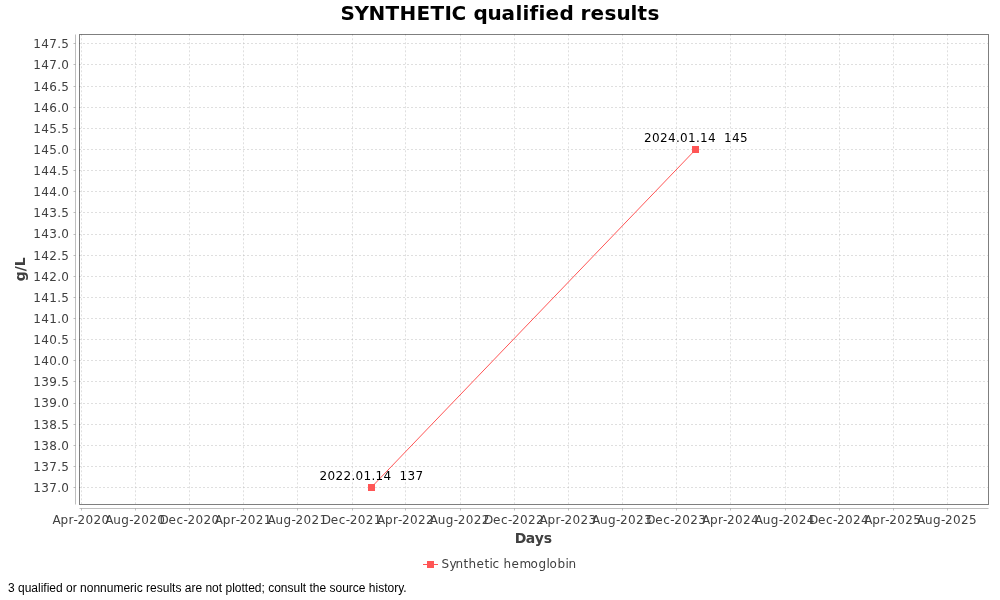
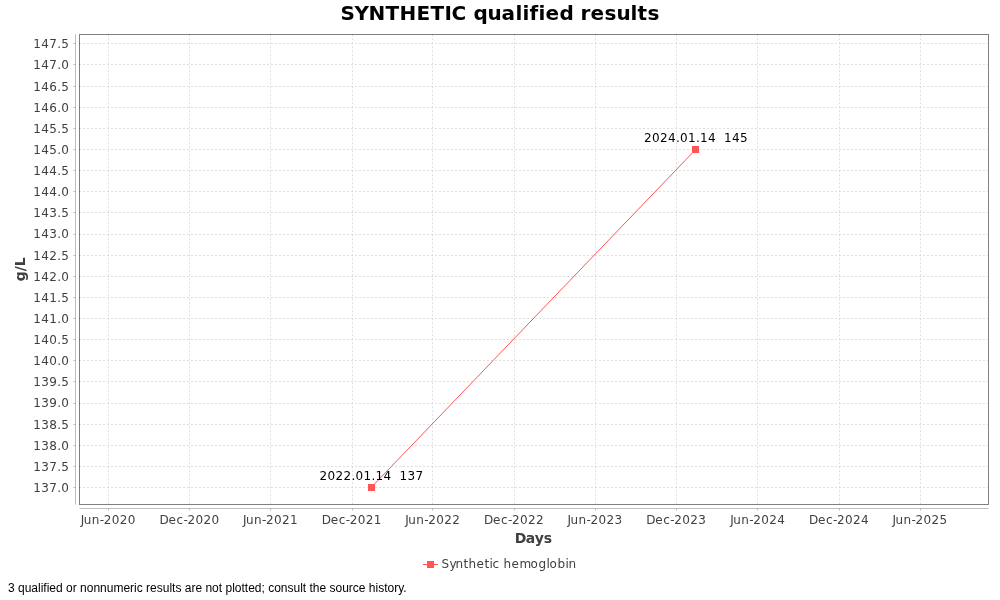
test(charts): recapture localized comparisons after spacing repair

diff --git a/docs/testing/measurement-chart-screenshots.md b/docs/testing/measurement-chart-screenshots.md
@@ -1,6 +1,6 @@
 # Measurement chart comparison screenshots
 
-Baseline: `9004536dc8314d5f50542b48905ca3ca4099a916`. Candidate code: `9b0bb15c9f2b391b2081ce76dc107d013b2404e9`.
+Baseline: `9004536dc8314d5f50542b48905ca3ca4099a916`. Candidate code: `4173aa17ef12be8c94eebe8d9013094aec10976a`.
 
 **Scope:** these are Playwright screenshots of actual Java-generated chart configurations rendered using each revision's bundled JavaScript. They are renderer fixtures, not evidence of installed patient-chart, CDM, lab-ingestion, unlink, database, or PDF workflows. All data is synthetic.
 
@@ -70,3 +70,5 @@ These screenshots accompany the existing chart reference suite. The single-point
 ## Remaining evidence
 
 Native installed ON/BC workflow screenshots, CDM two-tab behavior, renderer outage/recovery in the application and actual print/PDF comparisons remain required by the acceptance register.
+
+Visual inspection of the first candidate screenshots identified overlapping French date labels. The overlap was fixed and the final screenshots were recaptured; the earlier failed visual attempt remains in commit `ebab9861b41`.
